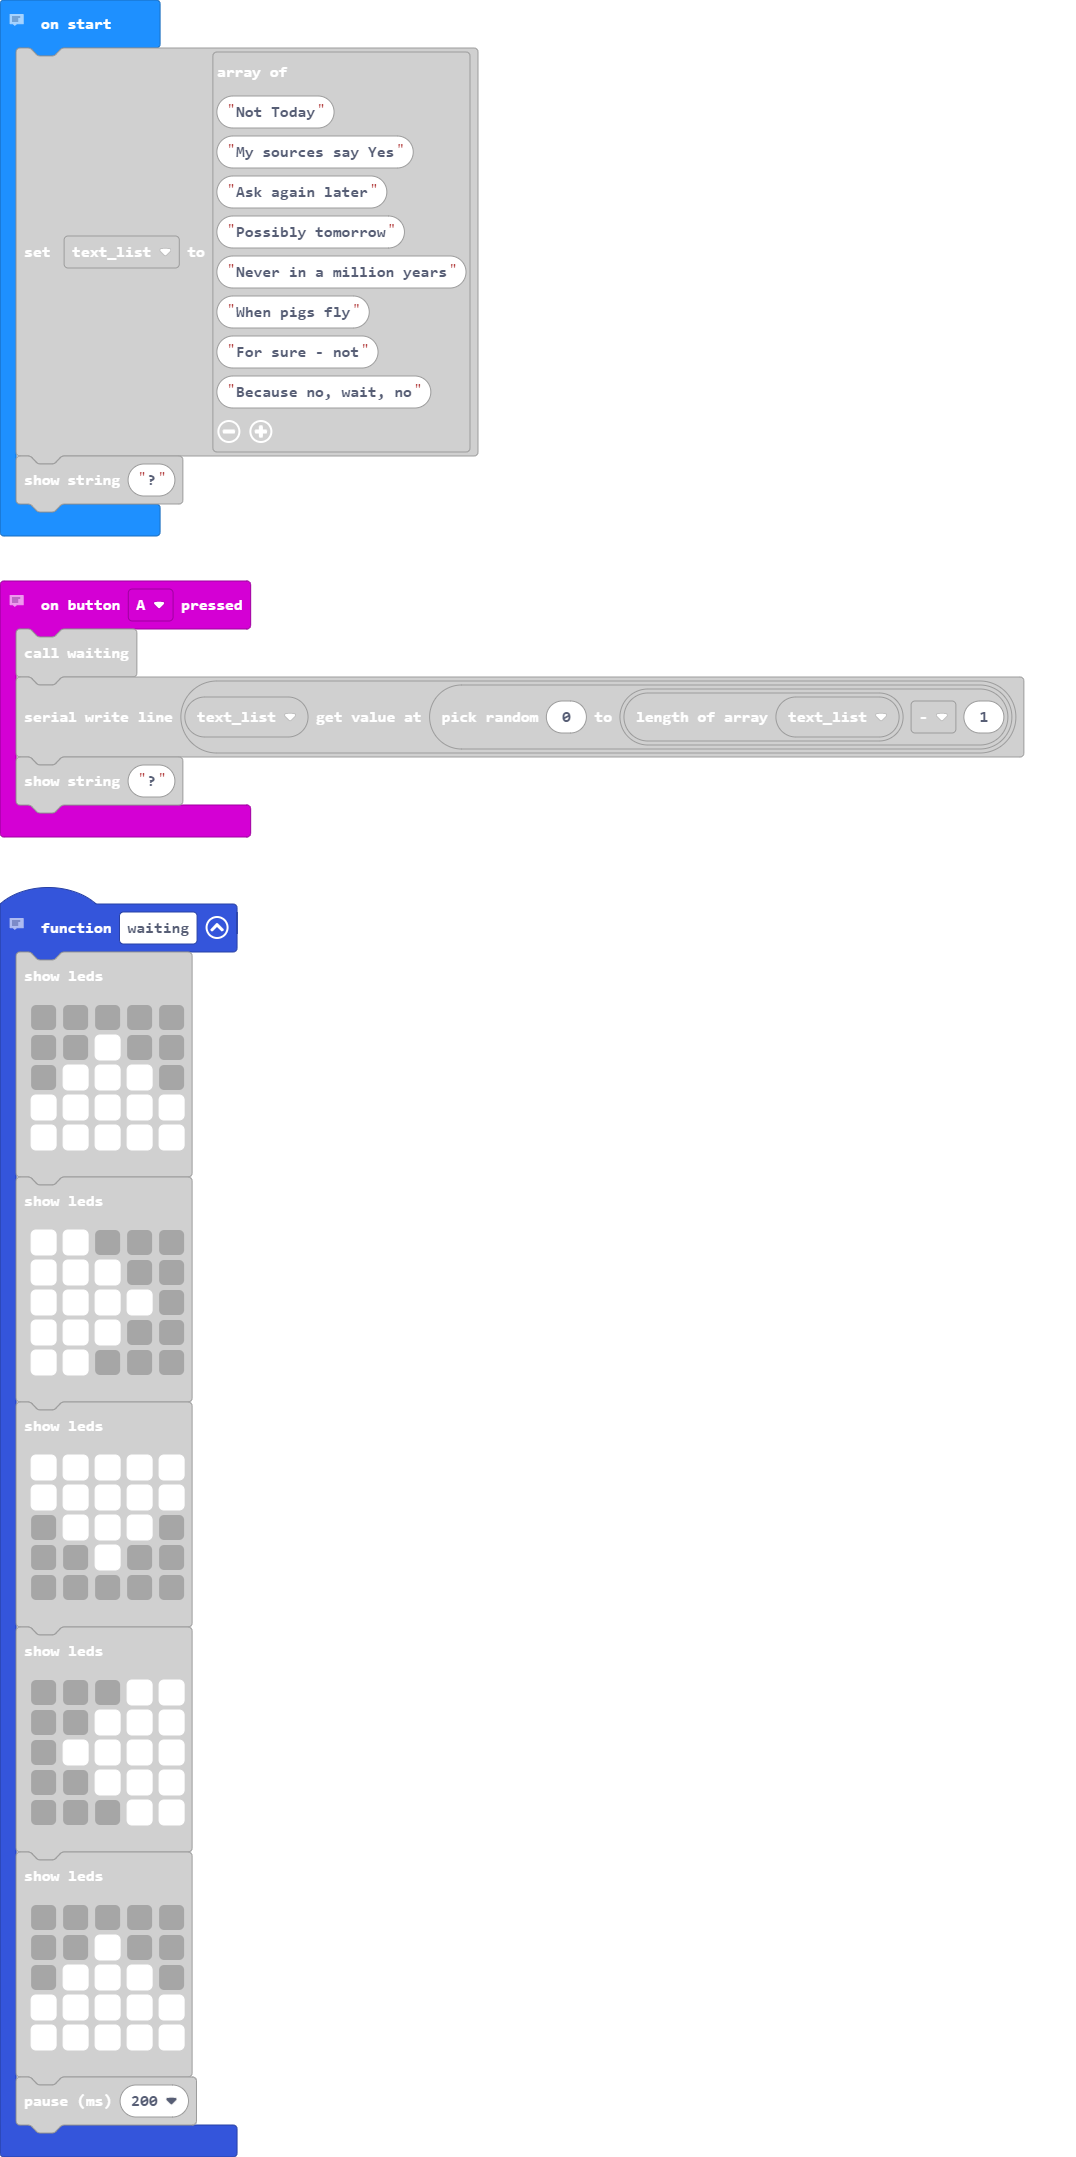
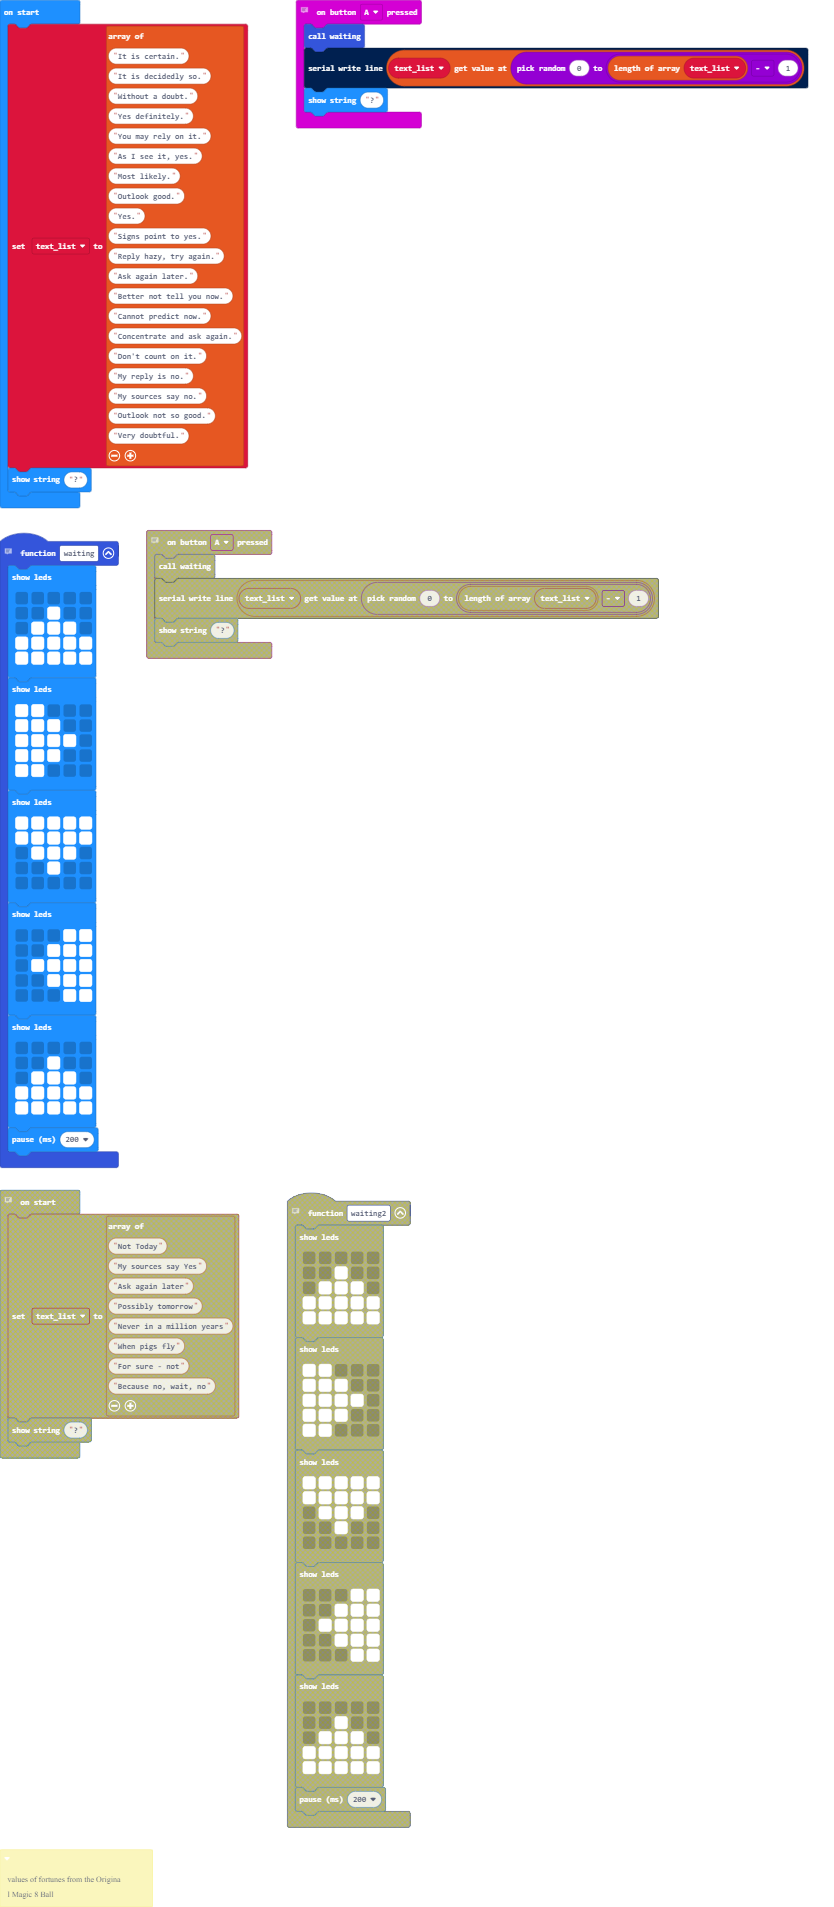
Update main.blocks, main.ts

Changed region(s): [[0.0, 0.0, 0.9664, 1.0], [0.3429, 0.6188, 0.4988, 0.9591]]

diff --git a/main.ts b/main.ts
@@ -43,16 +43,30 @@ function waiting () {
         `)
     basic.pause(200)
 }
-// values of fortunes from 0 to 7 (8 total)
+/**
+ * values of fortunes from the Original Magic 8 Ball
+ */
 let text_list: string[] = []
 text_list = [
-"Not Today",
-"My sources say Yes",
-"Ask again later",
-"Possibly tomorrow",
-"Never in a million years",
-"When pigs fly",
-"For sure - not",
-"Because no, wait, no"
+"It is certain.",
+"It is decidedly so.",
+"Without a doubt.",
+"Yes definitely.",
+"You may rely on it.",
+"As I see it, yes.",
+"Most likely.",
+"Outlook good.",
+"Yes.",
+"Signs point to yes.",
+"Reply hazy, try again.",
+"Ask again later.",
+"Better not tell you now.",
+"Cannot predict now.",
+"Concentrate and ask again.",
+"Don't count on it.",
+"My reply is no.",
+"My sources say no.",
+"Outlook not so good.",
+"Very doubtful."
 ]
 basic.showString("?")
